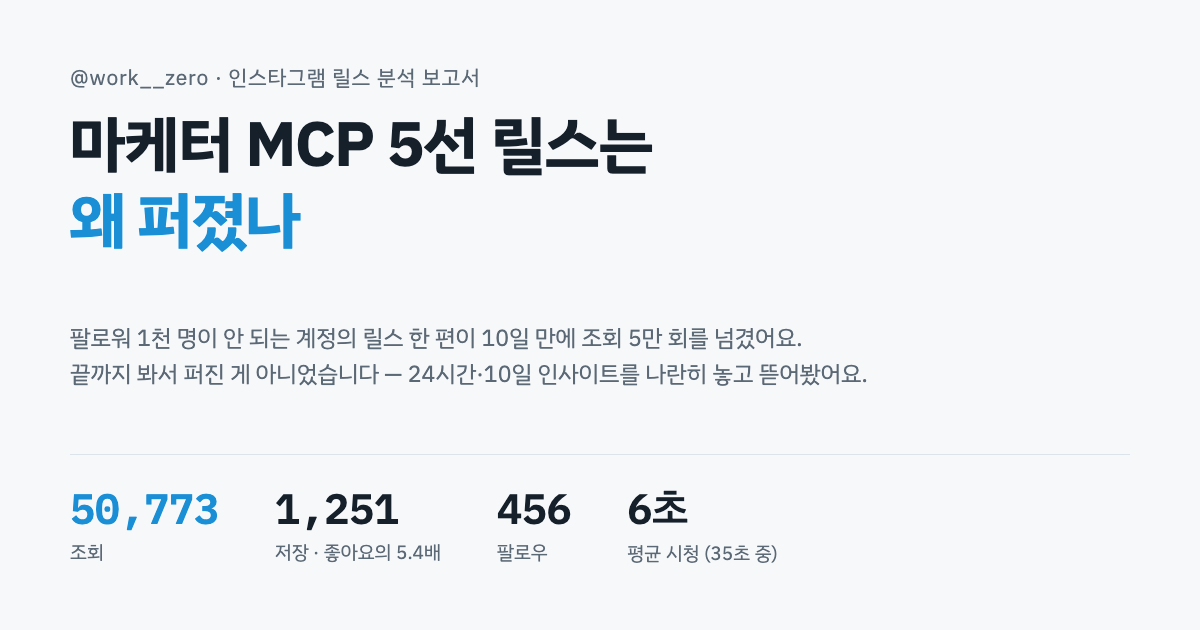
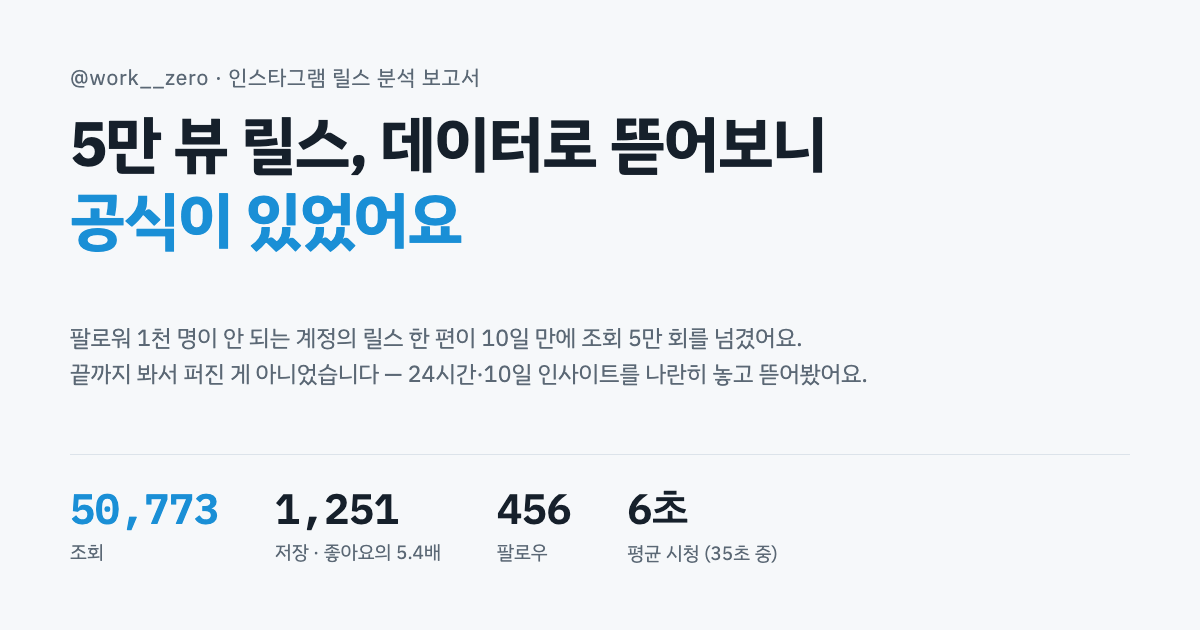
fix(reports): 마케터 MCP 보고서 제목 교체
"마케터 MCP 5선 릴스는 왜 퍼졌나" → "5만 뷰 릴스, 데이터로 뜯어보니 공식이 있었어요".
h1 / <title> / og:title / OG 카드 네 곳을 같이 바꾼다.

Changed region(s): [[0.0617, 0.181, 0.7092, 0.4222]]

diff --git a/reports/marketer-mcp-5/index.html b/reports/marketer-mcp-5/index.html
@@ -8,13 +8,13 @@
 <meta property="og:type" content="article">
 <meta property="og:site_name" content="워크제로">
 <meta property="og:locale" content="ko_KR">
-<meta property="og:title" content="마케터 MCP 5선 릴스는 왜 퍼졌나">
+<meta property="og:title" content="5만 뷰 릴스, 데이터로 뜯어보니 공식이 있었어요">
 <meta property="og:description" content="팔로워 1천 명이 안 되는 계정의 릴스 한 편이 10일 만에 조회 5만 회를 넘겼어요. 인스타 인사이트 24시간·10일 비교와, 같은 공식을 다시 써 본 결과까지 정리한 분석 보고서.">
 <meta property="og:url" content="https://workzeroai.github.io/reports/marketer-mcp-5/">
 <meta property="og:image" content="https://workzeroai.github.io/reports/marketer-mcp-5/og.png">
 <meta name="twitter:card" content="summary_large_image">
 <link rel="canonical" href="https://workzeroai.github.io/reports/marketer-mcp-5/">
-<title>마케터 MCP 5선 회고</title>
+<title>5만 뷰 릴스, 데이터로 뜯어보니 공식이 있었어요</title>
 <link rel="preconnect" href="https://fonts.googleapis.com">
 <link rel="preconnect" href="https://fonts.gstatic.com" crossorigin>
 <link rel="stylesheet" href="https://fonts.googleapis.com/css2?family=IBM+Plex+Sans+KR:wght@400;500;700&family=IBM+Plex+Mono:wght@500;600&display=swap">
@@ -173,7 +173,7 @@ footer { font-size: 13px; color: var(--muted); display: grid; gap: 6px; border-t
 <div class="wrap">
   <header>
     <div class="eyebrow">@work__zero · 인스타그램 릴스 · 2026-10-07 기준</div>
-    <h1>마케터 MCP 5선 릴스는 왜 퍼졌나</h1>
+    <h1>5만 뷰 릴스, 데이터로 뜯어보니 공식이 있었어요</h1>
     <p class="note">팔로워 1천 명이 안 되는 계정의 릴스 한 편이 10일 만에 조회 5만 회를 넘겼어요. 인스타 인사이트를 게시 24시간 뒤와 10일 뒤 두 번 캡처해 나란히 놓고, 같은 공식을 다시 써 본 결과까지 정리했어요.</p>
   </header>
   <p class="lede"><strong>한 줄 결론:</strong> 끝까지 봐서 퍼진 영상이 아니에요. 평균 시청은 35초 중 6초였어요. 대신 <strong>마케터가 저장하고 동료에게 보낼 이유</strong>가 확실했고, 저장·공유·팔로우 신호가 비팔로워 추천을 열흘 동안 계속 키운 것으로 보여요.</p>
